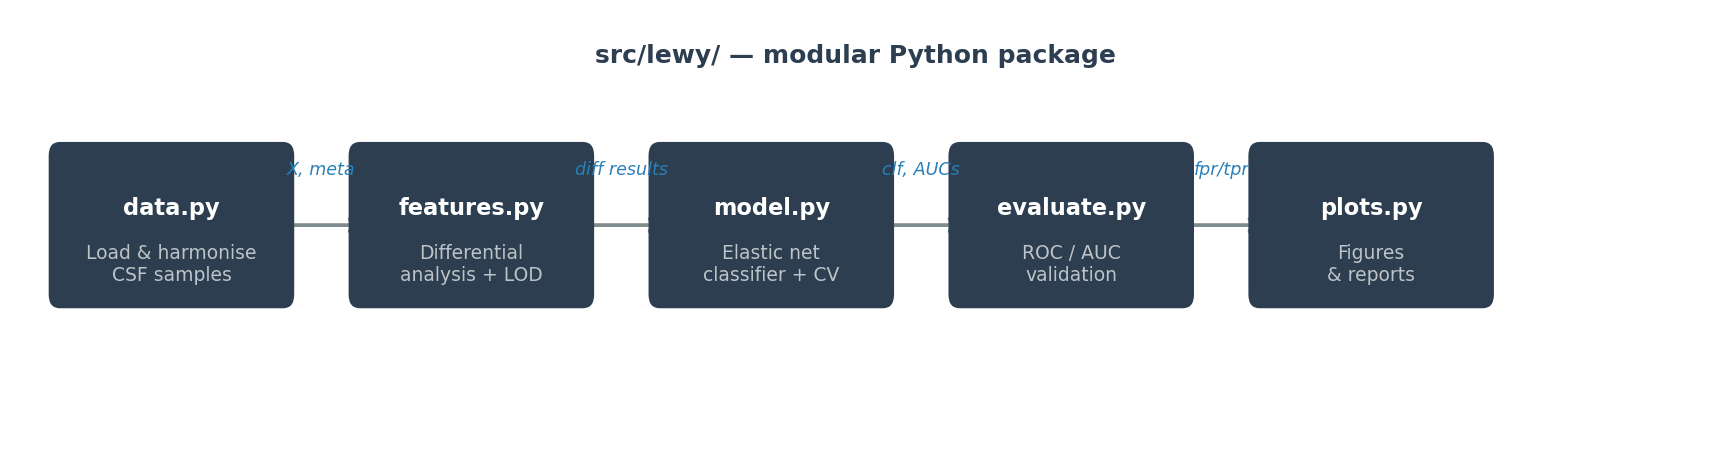
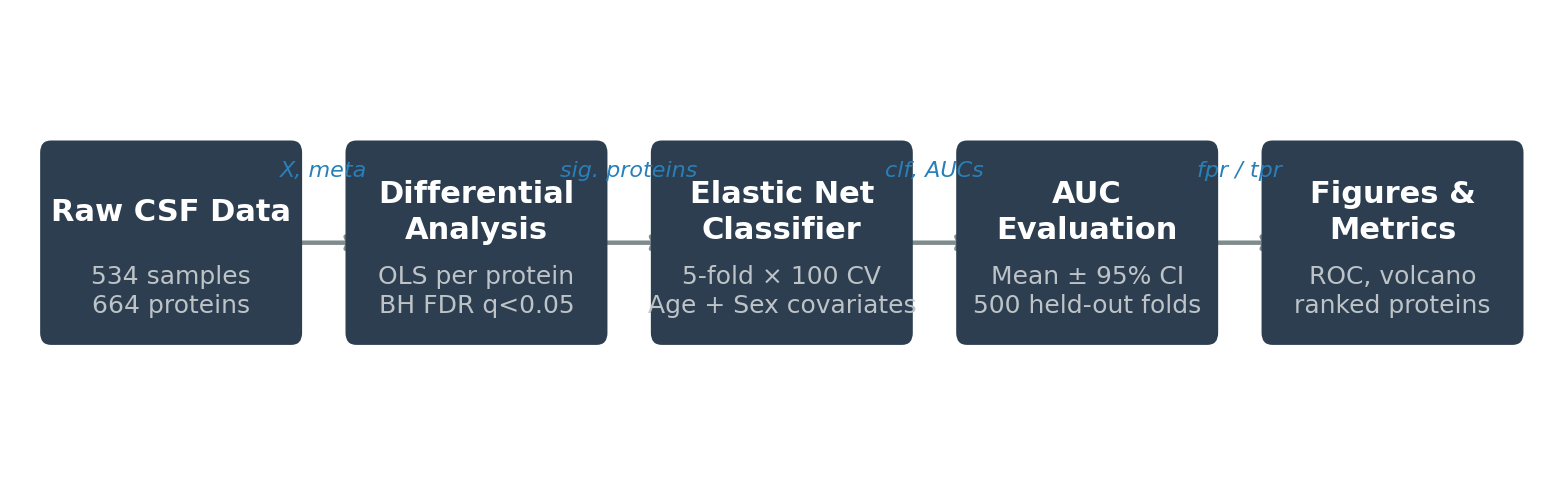
docs: fix slide layout, figures, and rendering issues
- Fix q < 0.05 rendering (text mode to math mode)
- Redesign pipeline figure with conceptual stages and larger fonts
- Generate top-20 protein AUC figure for legible slide display
- Shorten block text on slides 2, 4, 8, 9 to eliminate vbox overflow
- Add [shrink] option on slides 2 and 9 as final fit safety net
- Redesign slide 9 as two-column with explanatory blocks + ROC figure
- Switch slide 11 to top-20 protein figure
- Remove coding references from takeaways slide

Changed region(s): [[0.0, 0.2794, 0.9827, 0.714], [0.3378, 0.0931, 0.6449, 0.1552]]

diff --git a/docs/presentation/DLB_Presentation.tex b/docs/presentation/DLB_Presentation.tex
@@ -10,10 +10,10 @@
 \usepackage{amssymb}
 \usepackage{hyperref}
 
-\title{Reproducing and Extending a CSF Proteomics ML Pipeline}
-\subtitle{del Campo et al.\ (2023) — Python Recreation and Improvement}
-\author{Suren Behnamlal}
-\date{Data Science — Computer Engineering}
+\title{CSF Proteomics ML Pipeline}
+\subtitle{Reproducing and Extending}
+\author{Behnam Lal Moghaddam}
+\date{\today}
 
 \begin{document}
 
@@ -22,17 +22,17 @@
 \end{frame}
 
 % ── Slide 2 ────────────────────────────────────────────────────────────────
-\begin{frame}{The Diagnostic Problem}
+\begin{frame}[shrink=8]{The Diagnostic Problem}
     \begin{columns}
         \begin{column}{0.52\textwidth}
             \begin{alertblock}{The Overlap}
-                Dementia with Lewy bodies (DLB) and Alzheimer's disease share amyloid and tau pathology in roughly 50\% of cases. They cannot be reliably distinguished by symptoms alone in early stages.
+                DLB and AD share amyloid and tau pathology in $\sim$50\% of cases — they cannot be distinguished by symptoms alone in early stages.
             \end{alertblock}
             \begin{block}{The Scale}
-                DLB is the second most common neurodegenerative dementia after Alzheimer's disease. It progresses faster and responds differently to treatment — misdiagnosis causes real harm.
+                DLB is the second most common neurodegenerative dementia. It progresses faster than AD and responds differently to treatment — misdiagnosis causes direct harm.
             \end{block}
             \begin{exampleblock}{The CSF Window}
-                Cerebrospinal fluid is in direct biochemical contact with the brain and carries protein signatures of neurodegeneration. It is the richest accessible source of diagnostic biomarkers.
+                Cerebrospinal fluid circulates directly around the brain, carrying protein signatures of neurodegeneration — the richest accessible window for diagnostic biomarkers.
             \end{exampleblock}
         \end{column}
         \begin{column}{0.43\textwidth}
@@ -61,14 +61,11 @@
     \begin{columns}
         \begin{column}{0.52\textwidth}
             \begin{block}{Olink PEA: What the Machine Produces}
-                Each sample becomes a vector of 664 NPX values — log2-scale relative protein abundances. Measured from a small CSF volume using antibody pairs with unique DNA-barcode readout.
+                Each sample becomes a vector of 664 NPX values — log2-scale relative protein abundances — measured from a small CSF volume using antibody pairs with unique DNA-barcode readout. Only proteins detected in $\geq$85\% of samples are retained.
             \end{block}
-            \begin{exampleblock}{From the ML Perspective}
-                Input matrix \textbf{X}: 534 rows $\times$ 664 features. Labels \textbf{y}: DLB = 109, AD = 235, CN = 190. Two binary classification tasks: \textbf{DLB vs CN} and \textbf{DLB vs AD}.
+            \begin{exampleblock}{The Classification Problem}
+                Input matrix \textbf{X}: 534 rows $\times$ 664 features, plus Age and Sex as covariates. Labels \textbf{y}: DLB = 109, AD = 235, CN = 190. Two binary tasks: \textbf{DLB vs CN} and \textbf{DLB vs AD}.
             \end{exampleblock}
-            \begin{alertblock}{LOD Filter}
-                85\% limit-of-detection threshold applied before modelling. Proteins detected in fewer than 85\% of samples are dropped. 665 proteins survive to 664 after filtering.
-            \end{alertblock}
         \end{column}
         \begin{column}{0.43\textwidth}
             \begin{center}
@@ -81,7 +78,7 @@
 % ── Slide 5 ────────────────────────────────────────────────────────────────
 \begin{frame}{The Original ML Pipeline}
     \begin{block}{Step 1: Differential Analysis}
-        Per-protein linear model: \texttt{NPX \textasciitilde\ Diagnosis + Age + Sex}. Benjamini-Hochberg FDR correction at q < 0.05. Run separately for DLB vs CN and DLB vs AD to identify dysregulated proteins.
+        Per-protein linear model: \texttt{NPX \textasciitilde\ Diagnosis + Age + Sex}. Benjamini-Hochberg FDR correction at $q < 0.05$. Run separately for DLB vs CN and DLB vs AD to identify dysregulated proteins.
     \end{block}
     \begin{alertblock}{Step 2: ECPC Classification}
         Empirical Bayes Co-data Penalised Classification — a Bayesian ridge regression that uses protein group priors to set per-group regularisation strength. Produces a dense model over all 664 proteins. \textbf{No Python equivalent exists.}
@@ -134,7 +131,7 @@
                 Our AUC: \textbf{0.937} [0.877--0.985]. Paper: 0.929. Panel overlap: 5 of 7 proteins match the paper's reported panel.
             \end{block}
             \begin{exampleblock}{Faithful Recreation}
-                Both comparisons match or exceed the paper's reported AUCs. The elastic net substitution is validated. Age and Sex included as covariates alongside protein NPX.
+                Both comparisons match or exceed the paper's AUCs. Elastic net as a drop-in for ECPC is validated — the method substitution holds.
             \end{exampleblock}
         \end{column}
         \begin{column}{0.43\textwidth}
@@ -146,10 +143,22 @@
 \end{frame}
 
 % ── Slide 9 ────────────────────────────────────────────────────────────────
-\begin{frame}{Discovery ROC Curves}
-    \begin{center}
-        \includegraphics[width=0.72\textwidth]{figs/roc_DLB_vs_CN.png}
-    \end{center}
+\begin{frame}[shrink=12]{Discovery ROC Curves}
+    \begin{columns}
+        \begin{column}{0.42\textwidth}
+            \begin{block}{Reading the Curve}
+                Each point is a decision threshold. The area under the curve equals the probability the model ranks a random DLB patient above a random control — 0.5 is chance, 1.0 is perfect.
+            \end{block}
+            \begin{exampleblock}{Full-Fit vs CV AUC}
+                Full-fit AUC is 1.000 — expected on training data. The honest estimate is the cross-validated \textbf{0.986}, from 500 held-out folds the model never saw during training.
+            \end{exampleblock}
+        \end{column}
+        \begin{column}{0.54\textwidth}
+            \begin{center}
+                \includegraphics[width=\textwidth]{figs/roc_DLB_vs_CN.png}
+            \end{center}
+        \end{column}
+    \end{columns}
 \end{frame}
 
 % ── Slide 10 ───────────────────────────────────────────────────────────────
@@ -168,14 +177,14 @@
 % ── Slide 11 ───────────────────────────────────────────────────────────────
 \begin{frame}{Per-Protein Biomarker Landscape}
     \begin{center}
-        \includegraphics[width=0.88\textwidth]{figs/protein_aucs.png}
+        \includegraphics[width=0.88\textwidth, height=0.80\textheight, keepaspectratio]{figs/protein_aucs_pres.png}
     \end{center}
 \end{frame}
 
 % ── Slide 12 ───────────────────────────────────────────────────────────────
 \begin{frame}{Takeaways}
     \begin{alertblock}{Reproducibility is Engineering}
-        A 2399-line R script is not a pipeline. Modular, CLI-driven, importable Python code is the engineering standard — and it makes the science extensible by anyone with \texttt{pip install}.
+        A 2399-line monolithic R script is not a reusable pipeline. A reproducible analysis is one that any collaborator can re-run, extend, and audit — and that is an engineering problem, not a science problem.
     \end{alertblock}
     \begin{block}{Method Substitution Works}
         Elastic net as a drop-in for ECPC reproduces the paper's core results. When no Python equivalent exists, understand the method well enough to approximate it faithfully — and validate empirically.

diff --git a/docs/presentation/figs/pipeline_arch.py b/docs/presentation/figs/pipeline_arch.py
@@ -9,44 +9,41 @@ from matplotlib.patches import FancyBboxPatch
 
 OUT = Path(__file__).parent / "pipeline_arch.png"
 
-MODULES = [
-    ("data.py", "Load & harmonise\nCSF samples"),
-    ("features.py", "Differential\nanalysis + LOD"),
-    ("model.py", "Elastic net\nclassifier + CV"),
-    ("evaluate.py", "ROC / AUC\nvalidation"),
-    ("plots.py", "Figures\n& reports"),
+STAGES = [
+    ("Raw CSF Data", "534 samples\n664 proteins"),
+    ("Differential\nAnalysis", "OLS per protein\nBH FDR q<0.05"),
+    ("Elastic Net\nClassifier", "5-fold × 100 CV\nAge + Sex covariates"),
+    ("AUC\nEvaluation", "Mean ± 95% CI\n500 held-out folds"),
+    ("Figures &\nMetrics", "ROC, volcano\nranked proteins"),
 ]
 
-ARROWS = [
-    "X, meta",
-    "diff results",
-    "clf, AUCs",
-    "fpr/tpr",
-]
+ARROWS = ["X, meta", "sig. proteins", "clf, AUCs", "fpr / tpr"]
 
-BOX_W = 1.6
-BOX_H = 0.8
-GAP = 0.55
-START_X = 0.3
-Y = 1.2
+BOX_W = 1.55
+BOX_H = 1.05
+GAP = 0.42
+START_X = 0.2
+Y = 1.3
+TOTAL_W = len(STAGES) * BOX_W + (len(STAGES) - 1) * GAP + 2 * START_X
 
-fig, ax = plt.subplots(figsize=(12, 3))
-ax.set_xlim(0, 12)
-ax.set_ylim(0, 2.4)
+fig, ax = plt.subplots(figsize=(TOTAL_W, 2.9))
+ax.set_xlim(0, TOTAL_W)
+ax.set_ylim(0, 2.6)
 ax.axis("off")
 
 BOX_COLOR = "#2c3e50"
 TEXT_COLOR = "white"
+SUB_COLOR = "#bdc3c7"
 ARROW_COLOR = "#7f8c8d"
 LABEL_COLOR = "#2980b9"
 
-for i, (name, role) in enumerate(MODULES):
+for i, (title, subtitle) in enumerate(STAGES):
     x = START_X + i * (BOX_W + GAP)
     box = FancyBboxPatch(
         (x, Y - BOX_H / 2),
         BOX_W,
         BOX_H,
-        boxstyle="round,pad=0.08",
+        boxstyle="round,pad=0.07",
         facecolor=BOX_COLOR,
         edgecolor="none",
         zorder=3,
@@ -54,24 +51,26 @@ for i, (name, role) in enumerate(MODULES):
     ax.add_patch(box)
     ax.text(
         x + BOX_W / 2,
-        Y + 0.1,
-        name,
+        Y + 0.18,
+        title,
         ha="center",
         va="center",
-        fontsize=9,
+        fontsize=11,
         fontweight="bold",
         color=TEXT_COLOR,
         zorder=4,
+        linespacing=1.3,
     )
     ax.text(
         x + BOX_W / 2,
-        Y - 0.22,
-        role,
+        Y - 0.28,
+        subtitle,
         ha="center",
         va="center",
-        fontsize=7.5,
-        color="#bdc3c7",
+        fontsize=9,
+        color=SUB_COLOR,
         zorder=4,
+        linespacing=1.3,
     )
 
 for i, label in enumerate(ARROWS):
@@ -82,34 +81,23 @@ for i, label in enumerate(ARROWS):
         xy=(x_end, Y),
         xytext=(x_start, Y),
         arrowprops=dict(
-            arrowstyle="->,head_width=0.25,head_length=0.12",
+            arrowstyle="->,head_width=0.22,head_length=0.10",
             color=ARROW_COLOR,
-            lw=1.5,
+            lw=1.6,
         ),
         zorder=2,
     )
     ax.text(
         (x_start + x_end) / 2,
-        Y + 0.32,
+        Y + 0.42,
         label,
         ha="center",
         va="center",
-        fontsize=7,
+        fontsize=8,
         color=LABEL_COLOR,
         style="italic",
     )
 
-ax.text(
-    6.0,
-    2.18,
-    "src/lewy/ — modular Python package",
-    ha="center",
-    va="center",
-    fontsize=10,
-    fontweight="bold",
-    color="#2c3e50",
-)
-
-fig.savefig(OUT, dpi=180, bbox_inches="tight", facecolor="white")
+fig.savefig(OUT, dpi=200, bbox_inches="tight", facecolor="white")
 plt.close(fig)
 print(f"Saved: {OUT}")

diff --git a/docs/presentation/figs/protein_aucs_pres.py b/docs/presentation/figs/protein_aucs_pres.py
@@ -1,0 +1,80 @@
+"""Generate a presentation-sized protein AUC figure (top 20) from cached JSON."""
+
+from __future__ import annotations
+
+import json
+from pathlib import Path
+
+import matplotlib.pyplot as plt
+import pandas as pd
+
+METRICS = Path(__file__).parents[3] / "results" / "metrics"
+OUT = Path(__file__).parent / "protein_aucs_pres.png"
+TOP_N = 20
+
+PANEL_COLOR = "#e74c3c"
+DEFAULT_COLOR = "#95a5a6"
+STYLE = {
+    "figure.dpi": 150,
+    "font.size": 10,
+    "axes.spines.top": False,
+    "axes.spines.right": False,
+}
+
+
+def load(path: Path) -> pd.DataFrame:
+    data = json.loads(path.read_text())
+    key = "proteins" if "proteins" in data else list(data.keys())[0]
+    records = data[key] if isinstance(data[key], list) else data[key]
+    return (
+        pd.DataFrame(records).sort_values("auc", ascending=False).reset_index(drop=True)
+    )
+
+
+auc_cn = load(METRICS / "protein_aucs_DLB_vs_CN.json")
+auc_ad = load(METRICS / "protein_aucs_DLB_vs_AD.json")
+
+with plt.rc_context(STYLE):
+    fig, axes = plt.subplots(1, 2, figsize=(13, TOP_N * 0.28 + 2), sharey=False)
+
+    for ax, auc_df, title in zip(axes, [auc_cn, auc_ad], ["DLB vs CN", "DLB vs AD"]):
+        top = auc_df.head(TOP_N).copy()
+        colors = [PANEL_COLOR if f else DEFAULT_COLOR for f in top["in_panel"]]
+
+        ax.barh(
+            range(len(top)), top["auc"], color=colors, edgecolor="none", height=0.72
+        )
+        ax.axvline(0.5, color="#bdc3c7", lw=1.2, ls="--", label="0.5 (chance)")
+        ax.axvline(0.8, color="#e67e22", lw=1.2, ls="--", label="0.8 (good)")
+
+        ax.set_yticks(range(len(top)))
+        ax.set_yticklabels(top["protein"], fontsize=9)
+        ax.invert_yaxis()
+        ax.set_xlim(0.4, 1.02)
+        ax.set_xlabel("AUROC", fontsize=10)
+        ax.set_title(title, fontweight="bold", fontsize=11)
+        ax.legend(fontsize=8, loc="lower right")
+
+        for i, (_, row) in enumerate(top.iterrows()):
+            if row["in_panel"]:
+                ax.get_yticklabels()[i].set_color(PANEL_COLOR)
+                ax.get_yticklabels()[i].set_fontweight("bold")
+
+    from matplotlib.patches import Patch
+
+    legend_elements = [
+        Patch(facecolor=PANEL_COLOR, label="Panel protein"),
+        Patch(facecolor=DEFAULT_COLOR, label="Other protein"),
+    ]
+    fig.legend(
+        handles=legend_elements,
+        loc="lower center",
+        ncol=2,
+        fontsize=9,
+        bbox_to_anchor=(0.5, -0.02),
+    )
+    fig.tight_layout(rect=[0, 0.04, 1, 1])
+    fig.savefig(OUT, dpi=180, bbox_inches="tight", facecolor="white")
+    plt.close(fig)
+
+print(f"Saved: {OUT}")
